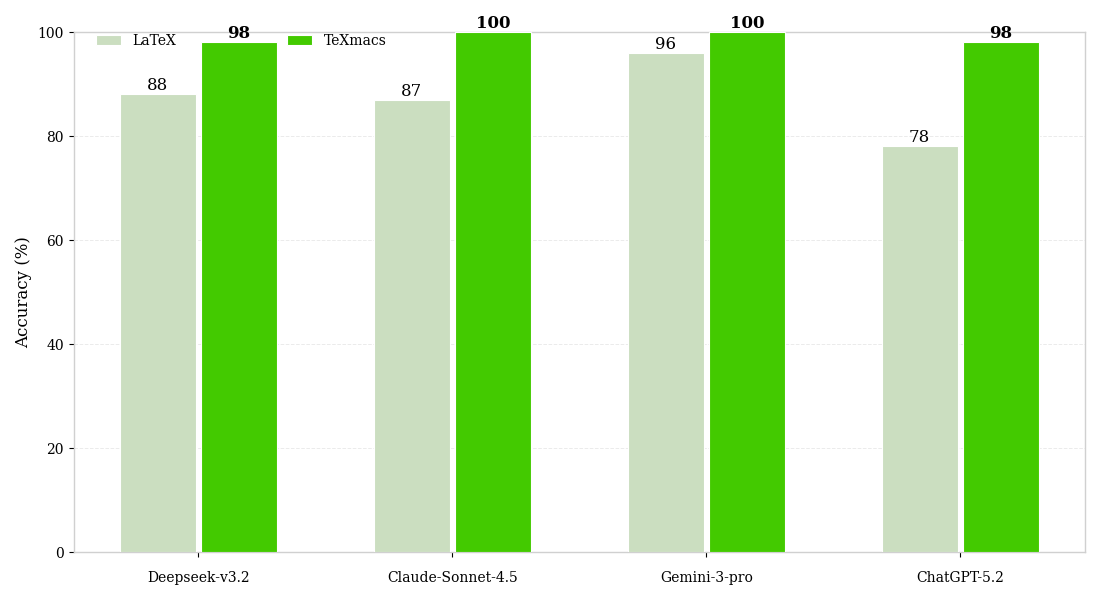
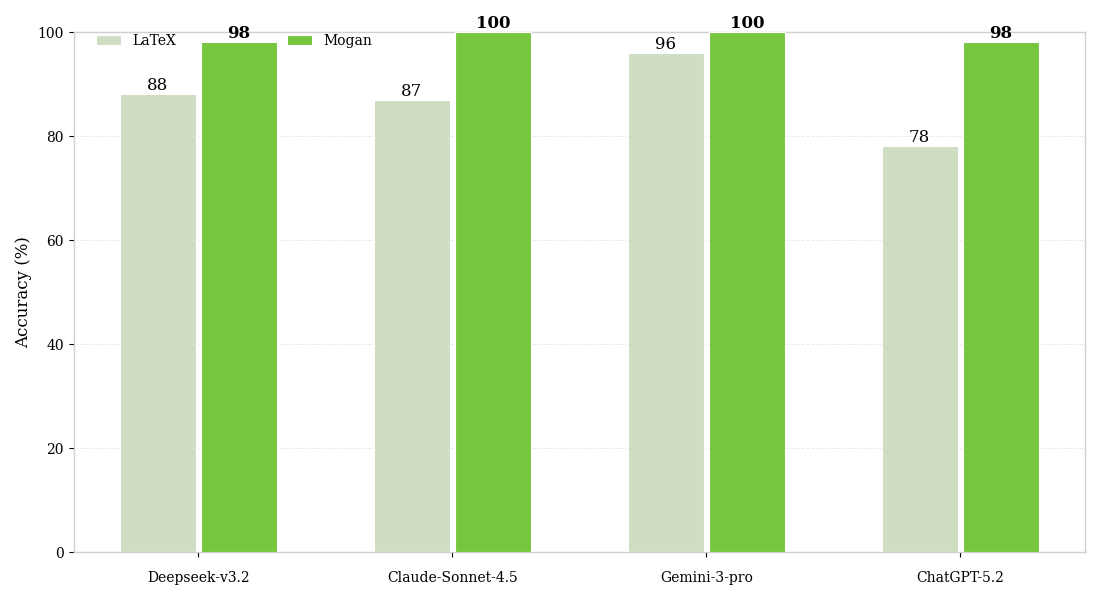
wip

diff --git a/draw_bench3.py b/draw_bench3.py
@@ -63,7 +63,7 @@ def main():
 
 	if texmacs_path and os.path.isfile(texmacs_path):
 		steps, losses = parse_jsonl_loss(texmacs_path)
-		plot_loss(ax, steps, losses, TEXMACS_COLOR, 'TeXmacs Loss', SMOOTH_WINDOW)
+		plot_loss(ax, steps, losses, TEXMACS_COLOR, 'Mogan Loss', SMOOTH_WINDOW)
 	else:
 		print(f'Warning: cannot read {texmacs_path}')
 	if latex_path:

diff --git a/draw_bench2.py b/draw_bench2.py
@@ -24,16 +24,16 @@ if data.shape != (2, 4):
 
 series_names = [
     "LaTeX",
-    "TeXmacs",
+    "Mogan",
 ]
 
 highlight_names = {
-    "TeXmacs"
+    "Mogan"
 }
 
 series_colors = {
-    "LaTeX":   "#CFBCB2",
-    "TeXmacs": "#CA4A00",
+    "LaTeX":   "#CFDDC3",
+    "Mogan": "#76C63E",
 }
 
 plt.rcParams.update({
